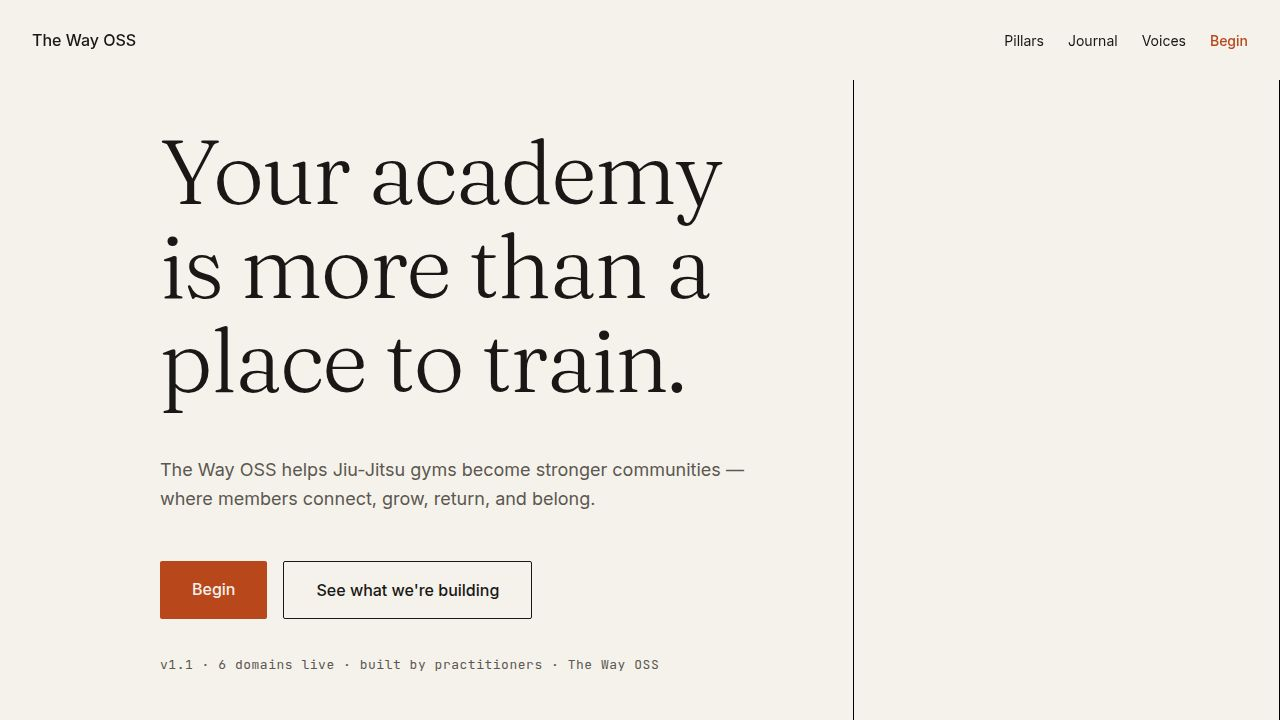
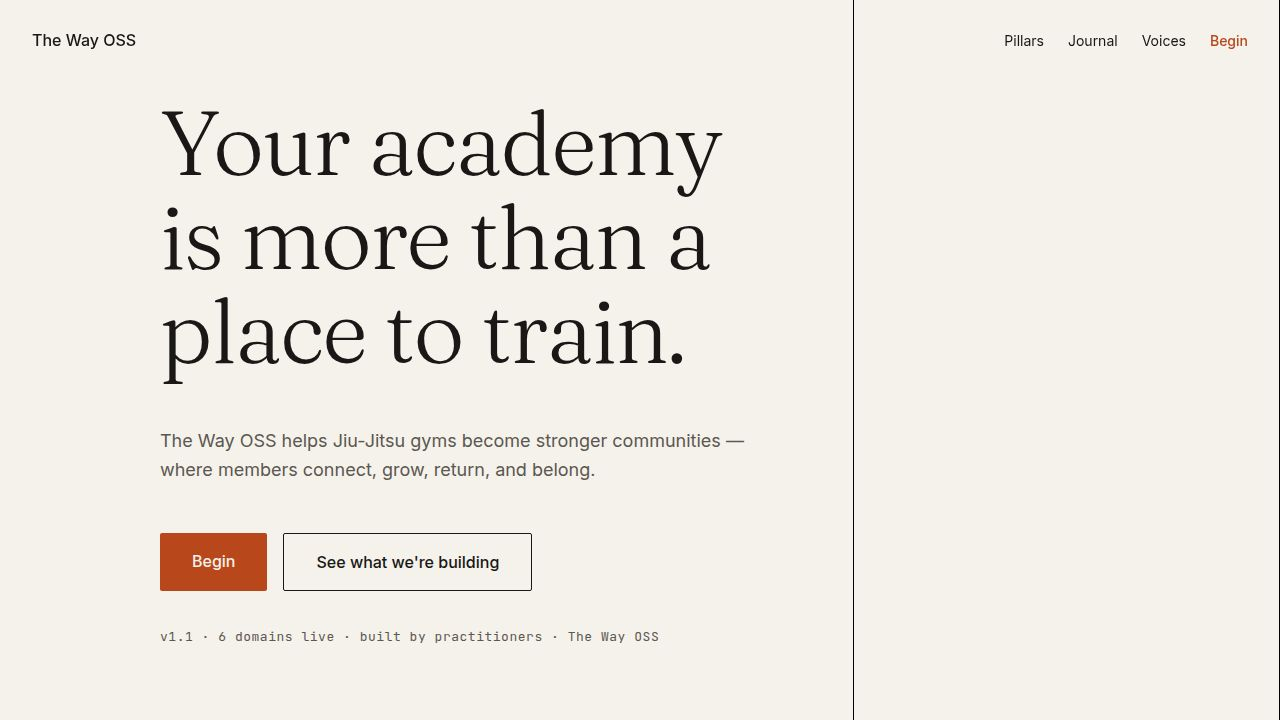
Improve hero image loading and display on all devices
Add preloading for the hero image and adjust its display for better responsiveness and text visibility across various screen sizes.

Replit-Commit-Author: Agent
Replit-Commit-Session-Id: 5540d263-c922-478f-a93d-6dac0375a36b
Replit-Commit-Checkpoint-Type: full_checkpoint
Replit-Commit-Event-Id: 540c3a85-4b40-4376-b5b8-e7245f598a52
Replit-Commit-Screenshot-Url: https://storage.googleapis.com/screenshot-production-us-central1/100c2e0a-63c4-46e5-a24c-c1dc62923102/5540d263-c922-478f-a93d-6dac0375a36b/OYrrYI4
Replit-Helium-Checkpoint-Created: true

diff --git a/artifacts/thewayoss-website/src/components/sections/Hero.tsx b/artifacts/thewayoss-website/src/components/sections/Hero.tsx
@@ -1,38 +1,39 @@
 import { motion } from "framer-motion";
 import { useFadeUp } from "@/lib/animations";
-import heroAvifSrcset from "../../assets/hero-image.webp?w=400;600;800;1200&format=avif&as=srcset";
 import heroWebpSrcset from "../../assets/hero-image.webp?w=400;600;800;1200&format=webp&as=srcset";
-import heroFallback from "../../assets/hero-image.webp?w=800&format=webp&as=url";
+import heroRaw from "../../assets/hero-image.webp";
 
 
 export default function Hero() {
   const fadeUp = useFadeUp();
 
   return (
-    <section className="relative w-full min-h-screen flex flex-col md:flex-row bg-[#F5F2EC]">
-      <div className="flex-1 md:w-2/3 flex flex-col justify-center px-[20px] md:px-[32px] pt-[120px] md:pt-[80px] max-w-[1280px] mx-auto md:mx-0 w-full z-10">
-        <motion.div {...fadeUp} className="max-w-[720px] md:pl-[32px] xl:pl-[128px]">
+    <section className="relative w-full min-h-screen flex flex-col lg:flex-row bg-[#F5F2EC]">
+
+      {/* Text column — left 2/3 on desktop */}
+      <div className="flex-1 lg:w-2/3 flex flex-col justify-center px-5 lg:px-8 pt-28 pb-10 lg:py-0 max-w-[1280px] mx-auto lg:mx-0 w-full z-10">
+        <motion.div {...fadeUp} className="max-w-[720px] lg:pl-8 xl:pl-32">
           <h1 className="text-postulate text-[#1A1816]">
             Your academy is more than a place to train.
           </h1>
-          
-          <p className="font-sans text-[18px] text-[#5C5750] mt-8 md:mt-12 leading-relaxed">
+
+          <p className="font-sans text-[18px] text-[#5C5750] mt-8 lg:mt-12 leading-relaxed">
             The Way OSS helps Jiu-Jitsu gyms become stronger communities — where members connect, grow, return, and belong.
           </p>
 
-          <div className="mt-8 md:mt-12 flex flex-col sm:flex-row gap-4 sm:gap-[16px]">
-            <a 
+          <div className="mt-8 lg:mt-12 flex flex-col sm:flex-row gap-4">
+            <a
               href="https://thewayoss.app/"
               target="_blank"
               rel="noopener noreferrer"
-              className="bg-[#B8471C] text-[#F5F2EC] font-sans font-medium text-[16px] px-[32px] py-[16px] rounded-[2px] hover:bg-[#9C3A15] transition-colors duration-200 text-center"
+              className="bg-[#B8471C] text-[#F5F2EC] font-sans font-medium text-[16px] px-8 py-4 rounded-[2px] hover:bg-[#9C3A15] transition-colors duration-200 text-center"
               data-testid="hero-btn-begin"
             >
               Begin
             </a>
-            <a 
+            <a
               href="/#journal"
-              className="bg-transparent border border-[#1A1816] text-[#1A1816] font-sans font-medium text-[16px] px-[32px] py-[16px] rounded-[2px] hover:border-[#B8471C] hover:text-[#B8471C] transition-colors duration-200 text-center"
+              className="bg-transparent border border-[#1A1816] text-[#1A1816] font-sans font-medium text-[16px] px-8 py-4 rounded-[2px] hover:border-[#B8471C] hover:text-[#B8471C] transition-colors duration-200 text-center"
               data-testid="hero-btn-journal"
             >
               See what we're building
@@ -46,30 +47,43 @@ export default function Hero() {
           </div>
         </motion.div>
       </div>
-      <div className="w-full md:w-1/3 h-[50vh] md:h-[calc(100vh-80px)] md:absolute md:right-0 md:top-[80px] md:pt-0 md:order-last border-x border-black">
-        {/* Bespoke photography — responsive variants served per device */}
-        <picture className="block w-full h-full">
-          <source
-            type="image/avif"
-            srcSet={heroAvifSrcset}
-            sizes="(max-width: 768px) 100vw, 33vw"
-          />
-          <source
-            type="image/webp"
-            srcSet={heroWebpSrcset}
-            sizes="(max-width: 768px) 100vw, 33vw"
-          />
-          <img
-            src={heroFallback}
-            alt="Practitioners shaking hands on the mat"
-            className="w-full h-full object-cover"
-            fetchPriority="high"
-            width={1200}
-            height={1800}
-            sizes="(max-width: 768px) 100vw, 33vw"
-          />
-        </picture>
+
+      {/*
+        Image column
+        ─────────────────────────────────────────────────────────────────
+        Mobile (< lg):
+          • Full viewport width, h-auto → renders at the image's
+            natural portrait proportions. Both baked-in text overlays
+            ("THIS IS NOT ANOTHER APP" and "THIS IS THE WAY.") remain
+            fully visible — no cropping.
+
+        Desktop (≥ lg):
+          • Absolute right column pinned to the full viewport height.
+          • Explicit lg:h-screen so h-full on the img resolves correctly.
+          • object-top anchors the "THIS IS NOT ANOTHER APP" headline
+            at the top of the column rather than centering it.
+
+        Performance:
+          • src={heroRaw} loads immediately — no imagetools transform.
+          • srcSet swaps in optimised webp variants progressively once
+            the dev server has processed them (production build pre-bakes
+            these at build time, so there is no delay in prod).
+      */}
+      <div className="w-full border-x border-black lg:w-1/3 lg:absolute lg:right-0 lg:top-0 lg:h-screen lg:overflow-hidden">
+        <img
+          src={heroRaw}
+          srcSet={heroWebpSrcset}
+          sizes="(max-width: 1024px) 100vw, 33vw"
+          alt="Practitioners training on the mat"
+          className="w-full h-auto lg:h-full lg:object-cover lg:object-top"
+          fetchPriority="high"
+          loading="eager"
+          decoding="sync"
+          width={1200}
+          height={1800}
+        />
       </div>
+
     </section>
   );
 }

diff --git a/artifacts/thewayoss-website/index.html b/artifacts/thewayoss-website/index.html
@@ -17,6 +17,7 @@
     <meta name="twitter:title" content="The Way OSS — Infrastructure for practitioners becoming leaders." />
     <meta name="twitter:description" content="A practice-ground platform for those building what comes next, across six domains." />
     <meta name="twitter:image" content="https://thewayoss.com/og-image.png" />
+    <link rel="preload" as="image" href="/src/assets/hero-image.webp" type="image/webp" fetchpriority="high" />
     <link rel="icon" type="image/svg+xml" href="/favicon.svg" />
     <link rel="icon" type="image/png" sizes="32x32" href="/favicon-32.png" />
     <link rel="icon" type="image/png" sizes="192x192" href="/favicon-192.png" />